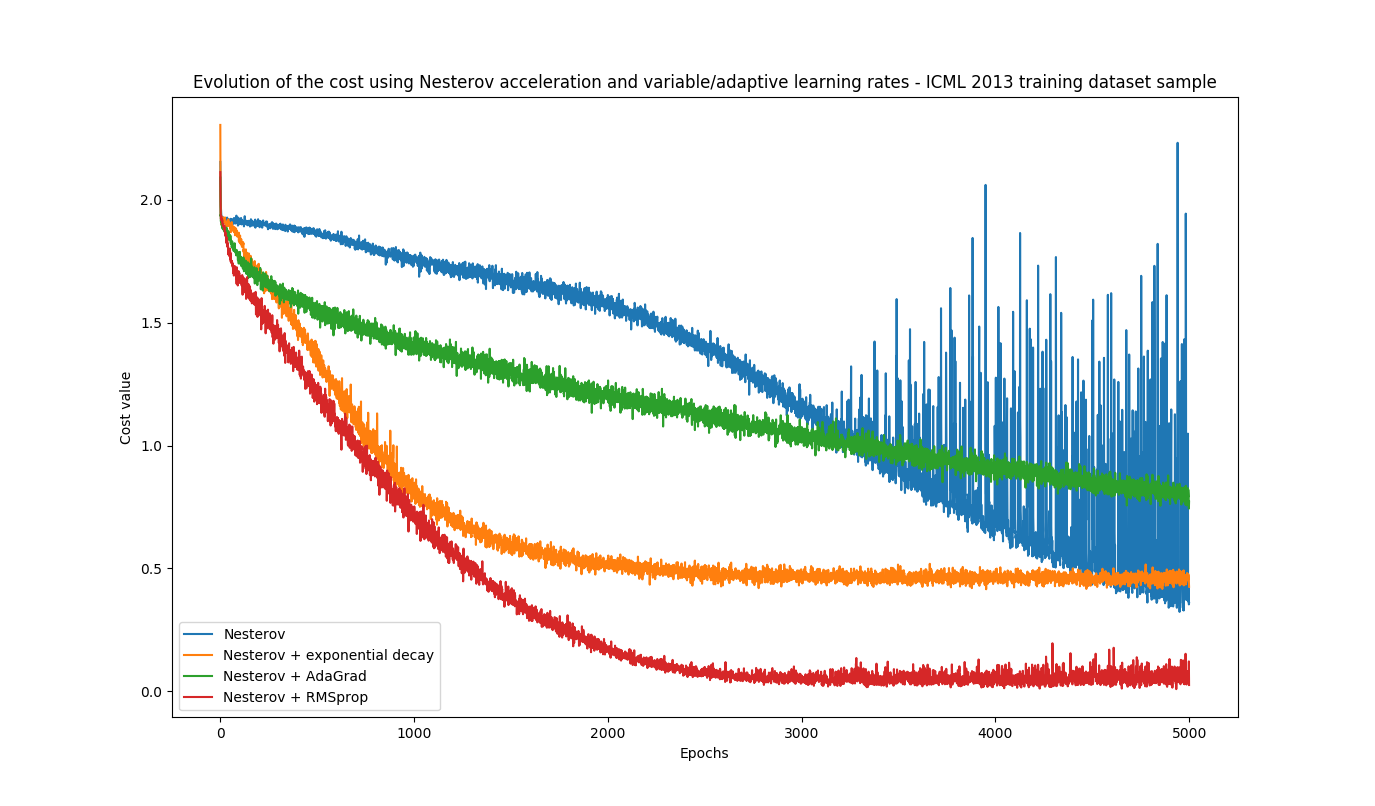
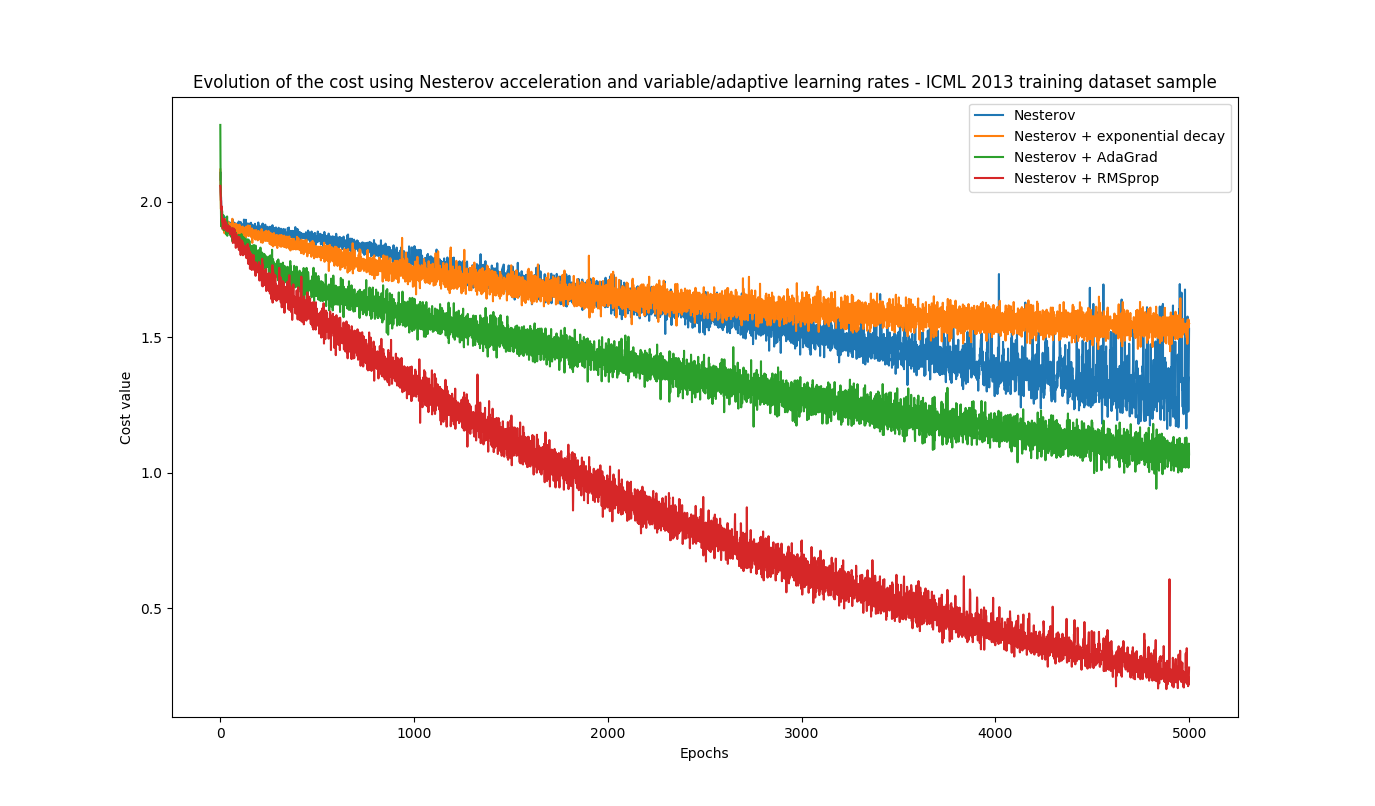
Add files via upload

Changed region(s): [[0.1527, 0.1241, 0.8858, 0.8685], [0.1222, 0.7754, 0.3055, 0.8685], [0.0916, 0.4032, 0.1222, 0.4342]]

diff --git a/fer_batch2_expdecay.py b/fer_batch2_expdecay.py
@@ -31,7 +31,8 @@ def main():
 
 
 # train the model with a hyperparameters setting
-    model.fit(X, Y, alpha=1e-2, epochs=5000, reg=0, mu=0.95, show_fig=True)
+    model.fit(X, Y, alpha=1e-2, epochs=5000, reg=0, mu=0.95, Nbatch=10,
+        decay=1e-2, show_fig=True)
 
 
 # compute the prediciton/accuracy based on input data
@@ -42,7 +43,6 @@ def main():
 
 # save the model object to a file
     joblib.dump(model, 'ANN_relu_batch2_expdecay.sav')
-    
 
 
 

diff --git a/fer_batch.py b/fer_batch.py
@@ -26,7 +26,8 @@ def main():
 
     model = ANN_relu([100,100,100,100])
 
-    model.fit(X, Y, alpha=1e-3, epochs=5000, reg=0, show_fig=True)
+    model.fit(X, Y, alpha=1e-3, epochs=5000, reg=0, Nbatch=10, 
+        show_fig=True)
 
     Ypred = model.predict(X)
     print('\nFinal model accuracy: {:.4f}'.format(np.mean(Y==Ypred)))

diff --git a/fer_batch3_RMSprop.py b/fer_batch3_RMSprop.py
@@ -29,7 +29,8 @@ def main():
 
 
 # train the model with a hyperparameters setting
-    model.fit(X, Y, alpha=1e-5, epochs=5000, reg=0, mu=0.95, show_fig=True)
+    model.fit(X, Y, alpha=1e-5, epochs=5000, reg=0, mu=0.95, Nbatch=10,
+        decay=0.95, show_fig=True)
     
 
 # compute the prediciton/accuracy based on input data

diff --git a/fer_batch2_RMSprop.py b/fer_batch2_RMSprop.py
@@ -29,7 +29,8 @@ def main():
 
 
 # train the model with a hyperparameters setting
-    model.fit(X, Y, alpha=1e-5, epochs=5000, reg=0, mu=0.95, show_fig=True)
+    model.fit(X, Y, alpha=1e-4, epochs=5000, reg=0, mu=0.95, Nbatch=10, 
+        decay=0.95, show_fig=True)
 
 
 # compute the prediciton/accuracy based on input data

diff --git a/fer_batch3_expdecay.py b/fer_batch3_expdecay.py
@@ -30,7 +30,8 @@ def main():
 
 
 # train the model with a hyperparameters setting
-    model.fit(X, Y, alpha=1e-3, epochs=5000, reg=0, mu=0.95, show_fig=True)
+    model.fit(X, Y, alpha=1e-2, epochs=5000, reg=0, mu=0.3, Nbatch=10,
+        decay=5e-3, show_fig=True)
 
 
 # compute the prediciton/accuracy based on input data

diff --git a/fer_batch3_AdaGrad.py b/fer_batch3_AdaGrad.py
@@ -29,7 +29,8 @@ def main():
 
 
 # train the model with a hyperparameters setting
-    model.fit(X, Y, alpha=1e-4, epochs=5000, reg=0, mu=0.95, show_fig=True)
+    model.fit(X, Y, alpha=1e-4, epochs=5000, reg=0, mu=0.95, Nbatch=10, 
+        show_fig=True)
 
 
 # compute the prediciton/accuracy based on input data

diff --git a/fer_batch2_AdaGrad.py b/fer_batch2_AdaGrad.py
@@ -29,7 +29,8 @@ def main():
 
 
 # train the model with a hyperparameters setting
-    model.fit(X, Y, alpha=1e-3, epochs=5000, reg=0, mu=0.95, show_fig=True)
+    model.fit(X, Y, alpha=1e-3, epochs=5000, reg=0, mu=0.95, Nbatch=10,
+        show_fig=True)
 
 
 # compute the prediciton/accuracy based on input data

diff --git a/fer_batch2.py b/fer_batch2.py
@@ -29,7 +29,8 @@ def main():
 
 
 # train the model with a hyperparameters setting
-    model.fit(X, Y, alpha=1e-2, epochs=5000, reg=0, mu=0.9, show_fig=True)
+    model.fit(X, Y, alpha=1e-3, epochs=5000, reg=0, mu=0.9, Nbatch=10, 
+        show_fig=True)
 
 
 # compute the prediciton/accuracy based on input data

diff --git a/fer_batch3.py b/fer_batch3.py
@@ -29,7 +29,8 @@ def main():
 
 
 # train the model with a hyperparameters setting
-    model.fit(X, Y, alpha=1e-4, epochs=5000, reg=0, mu=0.95, show_fig=True)
+    model.fit(X, Y, alpha=1e-3, epochs=5000, reg=0, mu=0.9, Nbatch=10,
+        show_fig=True)
 
 
 # compute the prediciton/accuracy based on input data
